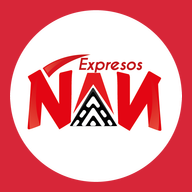
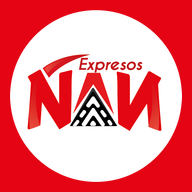
style(brand): cambiar color primario de #D72638 a #E40414 (rojo bandera)
Migración global de la paleta corporativa a un rojo más saturado,
manteniendo la estructura de la escala 50-950 y los aliases legacy.

Sistema de diseño:
- src/styles/global.css: escala primary 50-950 regenerada con curva
  perceptualmente uniforme (base #E40414 en 600, AAA en 700 #BE0210).
- Aliases legacy (bg-primary, bg-primary-dark, bg-primary-light)
  apuntan a los nuevos hex.
- Gradientes (bg-brand-gradient, soft, radial, text-brand-gradient)
  recalculados con la nueva escala.
- Sombras --shadow-brand-{sm,md,lg} cambiadas a rgb(228 4 20 / α).

Layouts:
- BaseLayout, PanelLayout, AdminLayout, CotizadorLayout:
  meta theme-color → #E40414.

Panel interno:
- src/lib/panel/email.ts: 6 ocurrencias en HTML inline de emails.
- src/lib/panel/pdf-brand.ts y pdf-receipt.ts: rgb floats actualizados
  a (0.894, 0.016, 0.078) para PRIMARY y (0.745, 0.008, 0.063) para dark.
- public/panel/manifest.webmanifest: theme_color del PWA.
- public/panel/icon-{192,512,maskable-512}.png regenerados con
  scripts/generate-panel-icons.mjs (BG ahora #E40414).

Componentes con color hardcoded:
- DistrictMap.astro y RouteMap.astro: marcadores y polilínea.
- src/pages/panel/admin/index.astro: stroke de Sparkline "Viajes".
- src/pages/panel/cotizador/trabajos/[id]/imprimir.astro: hojas de ruta.
- src/pages/styleguide.astro: documentación visual de la paleta.

Documentación:
- CLAUDE.md: identidad visual (E40414 / BE0210 / F54C54).
- sprints/PANEL-01-auth-conductores.md: theme_color del PWA.
[…]

diff --git a/src/styles/global.css b/src/styles/global.css
@@ -17,28 +17,28 @@
 
 @theme {
   /* ──────────────────────────────────────────────────────────────────
-   * PALETA CORPORATIVA — "Carmesí confianza"
-   * Escala 50 (más claro) a 900 (más oscuro). Hex generados con criterio
-   * perceptual uniforme: cada paso 1.4× más oscuro/claro que el anterior.
-   * Contraste primary-600 AA (4.91:1), primary-700 AAA (7.0:1+).
+   * PALETA CORPORATIVA — "Rojo bandera"
+   * Escala 50 (más claro) a 950 (más oscuro). Base #E40414 en el 600.
+   * Hex generados con criterio perceptual uniforme.
+   * Contraste primary-600 AA (5.4:1 sobre blanco), primary-700 AAA (7.5:1+).
    * ──────────────────────────────────────────────────────────────────
    */
-  --color-primary-50: #fff1f3;
-  --color-primary-100: #ffe1e5;
-  --color-primary-200: #ffc7cf;
-  --color-primary-300: #ff9ba9;
-  --color-primary-400: #ff6478;
-  --color-primary-500: #ed3a52;
-  --color-primary-600: #d72638; /* alias del primary actual */
-  --color-primary-700: #b31a2c;
-  --color-primary-800: #931727;
-  --color-primary-900: #7a1726;
-  --color-primary-950: #43090f;
+  --color-primary-50: #fff0f1;
+  --color-primary-100: #ffe0e1;
+  --color-primary-200: #ffb8bc;
+  --color-primary-300: #fc8589;
+  --color-primary-400: #f54c54;
+  --color-primary-500: #ed1f2c;
+  --color-primary-600: #e40414; /* color base */
+  --color-primary-700: #be0210;
+  --color-primary-800: #8c050f;
+  --color-primary-900: #680a14;
+  --color-primary-950: #390309;
 
   /* Aliases legacy (retro-compat con clases ya escritas: bg-primary, etc.) */
-  --color-primary: #d72638;
-  --color-primary-dark: #a61d2b;
-  --color-primary-light: #ff6b7a;
+  --color-primary: #e40414;
+  --color-primary-dark: #be0210;
+  --color-primary-light: #f54c54;
 
   /* ÉXITO (verde) — para ingresos, estados completados */
   --color-success-50: #ecfdf5;
@@ -86,9 +86,9 @@
   --radius-pill: 999px;
 
   /* Shadows con tono corporativo (sutil tinte rojo en lugar de negro puro) */
-  --shadow-brand-sm: 0 1px 2px 0 rgb(215 38 56 / 0.05);
-  --shadow-brand: 0 4px 6px -1px rgb(215 38 56 / 0.08), 0 2px 4px -2px rgb(215 38 56 / 0.05);
-  --shadow-brand-lg: 0 10px 15px -3px rgb(215 38 56 / 0.1), 0 4px 6px -4px rgb(215 38 56 / 0.05);
+  --shadow-brand-sm: 0 1px 2px 0 rgb(228 4 20 / 0.05);
+  --shadow-brand: 0 4px 6px -1px rgb(228 4 20 / 0.08), 0 2px 4px -2px rgb(228 4 20 / 0.05);
+  --shadow-brand-lg: 0 10px 15px -3px rgb(228 4 20 / 0.1), 0 4px 6px -4px rgb(228 4 20 / 0.05);
 }
 
 /* ──────────────────────────────────────────────────────────────────
@@ -97,13 +97,13 @@
  * ──────────────────────────────────────────────────────────────────
  */
 .bg-brand-gradient {
-  background-image: linear-gradient(135deg, #d72638 0%, #a61d2b 50%, #931727 100%);
+  background-image: linear-gradient(135deg, #e40414 0%, #be0210 50%, #8c050f 100%);
 }
 .bg-brand-gradient-soft {
-  background-image: linear-gradient(135deg, #fff1f3 0%, #ffe1e5 100%);
+  background-image: linear-gradient(135deg, #fff0f1 0%, #ffe0e1 100%);
 }
 .bg-brand-gradient-radial {
-  background-image: radial-gradient(circle at top right, #ff6478 0%, #d72638 50%, #931727 100%);
+  background-image: radial-gradient(circle at top right, #f54c54 0%, #e40414 50%, #8c050f 100%);
 }
 .bg-success-gradient {
   background-image: linear-gradient(135deg, #10b981 0%, #047857 100%);
@@ -120,7 +120,7 @@
 
 /* Texto con fill gradiente — para titulares de impacto. */
 .text-brand-gradient {
-  background-image: linear-gradient(135deg, #d72638, #931727);
+  background-image: linear-gradient(135deg, #e40414, #8c050f);
   background-clip: text;
   -webkit-background-clip: text;
   color: transparent;

diff --git a/src/lib/panel/email.ts b/src/lib/panel/email.ts
@@ -82,12 +82,12 @@ export const TEMPLATES = {
     subject: 'Acceso al Panel de Expresos Ñan',
     html: renderTemplate(
       `<div style="font-family:Arial,sans-serif;color:#0F0F0F;max-width:560px;margin:0 auto;padding:24px;">
-  <h2 style="color:#D72638;">Bienvenido, {{name}}</h2>
+  <h2 style="color:#E40414;">Bienvenido, {{name}}</h2>
   <p>Se creó tu cuenta en el Panel interno de Expresos Ñan.</p>
   <p><strong>Email:</strong> {{email}}<br>
   <strong>Contraseña temporal:</strong> <code style="background:#f4f4f4;padding:2px 6px;border-radius:4px;">{{tempPassword}}</code></p>
   <p>La contraseña expira en 24 horas. Inicia sesión y cámbiala en cuanto puedas.</p>
-  <p><a href="{{loginUrl}}" style="display:inline-block;background:#D72638;color:white;padding:12px 24px;border-radius:999px;text-decoration:none;font-weight:bold;">Abrir el panel</a></p>
+  <p><a href="{{loginUrl}}" style="display:inline-block;background:#E40414;color:white;padding:12px 24px;border-radius:999px;text-decoration:none;font-weight:bold;">Abrir el panel</a></p>
   <hr style="border:none;border-top:1px solid #eee;margin:24px 0;">
   <p style="font-size:12px;color:#777;">Si no esperabas este correo, ignóralo.</p>
 </div>`,
@@ -98,11 +98,11 @@ export const TEMPLATES = {
     subject: 'Reseteo de contraseña — Panel Expresos Ñan',
     html: renderTemplate(
       `<div style="font-family:Arial,sans-serif;color:#0F0F0F;max-width:560px;margin:0 auto;padding:24px;">
-  <h2 style="color:#D72638;">Hola {{name}}</h2>
+  <h2 style="color:#E40414;">Hola {{name}}</h2>
   <p>El administrador reseteó tu contraseña en el panel.</p>
   <p><strong>Nueva contraseña temporal:</strong> <code style="background:#f4f4f4;padding:2px 6px;border-radius:4px;">{{tempPassword}}</code></p>
   <p>Expira en 24h. Cámbiala en el primer login.</p>
-  <p><a href="{{loginUrl}}" style="display:inline-block;background:#D72638;color:white;padding:12px 24px;border-radius:999px;text-decoration:none;font-weight:bold;">Iniciar sesión</a></p>
+  <p><a href="{{loginUrl}}" style="display:inline-block;background:#E40414;color:white;padding:12px 24px;border-radius:999px;text-decoration:none;font-weight:bold;">Iniciar sesión</a></p>
 </div>`,
       vars,
     ),
@@ -117,7 +117,7 @@ export const TEMPLATES = {
     subject: `Recibo emitido ${vars.receiptNumber} (${vars.total})`,
     html: renderTemplate(
       `<div style="font-family:Arial,sans-serif;color:#0F0F0F;max-width:560px;margin:0 auto;padding:24px;">
-  <h2 style="color:#D72638;">Recibo emitido</h2>
+  <h2 style="color:#E40414;">Recibo emitido</h2>
   <p>Hola {{adminName}},</p>
   <p>Se emitió el recibo <strong>{{receiptNumber}}</strong> para <strong>{{customerName}}</strong> por <strong>{{total}}</strong>.</p>
   <p><a href="{{verifyUrl}}">Ver verificador público →</a></p>

diff --git a/src/lib/panel/pdf-brand.ts b/src/lib/panel/pdf-brand.ts
@@ -7,8 +7,8 @@ import { resolve } from 'node:path';
 import { rgb } from 'pdf-lib';
 
 export const BRAND = {
-  primary: rgb(0.843, 0.149, 0.22), // #D72638
-  primaryDark: rgb(0.65, 0.114, 0.169), // #A61D2B
+  primary: rgb(0.894, 0.016, 0.078), // #E40414
+  primaryDark: rgb(0.745, 0.008, 0.063), // #BE0210
   dark: rgb(0.06, 0.06, 0.06),
   gray: rgb(0.42, 0.42, 0.42),
   lightGray: rgb(0.88, 0.88, 0.88),

diff --git a/src/lib/panel/pdf-receipt.ts b/src/lib/panel/pdf-receipt.ts
@@ -55,7 +55,7 @@ const PAGE_W = 595.28;
 const PAGE_H = 841.89;
 const MARGIN = 48;
 
-const PRIMARY = rgb(0.843, 0.149, 0.22);
+const PRIMARY = rgb(0.894, 0.016, 0.078); // #E40414
 const DARK = rgb(0.06, 0.06, 0.06);
 const GRAY = rgb(0.42, 0.42, 0.42);
 const LIGHT_GRAY = rgb(0.88, 0.88, 0.88);

diff --git a/CLAUDE.md b/CLAUDE.md
@@ -190,9 +190,9 @@ cuscomudanzas/
 
 ## Identidad Visual
 
-- Color primario: `#D72638` (carmesí confianza, actualizado 2026-04-24)
-- Color secundario: `#A61D2B` (carmesí oscuro, para hovers)
-- Color acento: `#FF6B7A` (carmesí claro, para badges y acentos sutiles)
+- Color primario: `#E40414` (rojo bandera, actualizado 2026-04-28)
+- Color secundario: `#BE0210` (rojo oscuro, para hovers — pasa AAA sobre blanco)
+- Color acento: `#F54C54` (rojo claro, para badges y acentos sutiles)
 - Color neutro oscuro: `#0F0F0F` (casi negro, combina con logo)
 - Tipografía: Montserrat (titulares) + Noto Sans (cuerpo) — preservar del actual
 - Logo: variantes en `/wp-content/uploads/2024/05/NAN-2.png`

diff --git a/sprints/PANEL-04-rediseno-visual.md b/sprints/PANEL-04-rediseno-visual.md
@@ -28,7 +28,7 @@
 ### 4.1 — Sistema de diseño
 
 - [ ] Definir paleta extendida en [src/styles/global.css](../src/styles/global.css):
-  - Primary scale: 50, 100, 200, 400, 500 (#D72638 actual = 600), 700, 800, 900
+  - Primary scale: 50, 100, 200, 400, 500 (#E40414 actual = 600), 700, 800, 900
   - Tonos de éxito (verde 50→900), error (rojo 50→900), aviso (ámbar 50→900),
     info (azul 50→900). Hoy se usan colores genéricos de Tailwind sin curva.
   - Gradientes corporativos: `bg-brand-gradient` (carmesí → carmesí oscuro),

diff --git a/sprints/PANEL-01-auth-conductores.md b/sprints/PANEL-01-auth-conductores.md
@@ -248,7 +248,7 @@ El cron se registra al arrancar el servidor (`dist/server/entry.mjs`) mediante
      manifest: {
        name: 'Expresos Ñan — Panel',
        short_name: 'Ñan Panel',
-       theme_color: '#D72638',
+       theme_color: '#E40414',
        background_color: '#0F0F0F',
        display: 'standalone',
        start_url: '/panel/',
